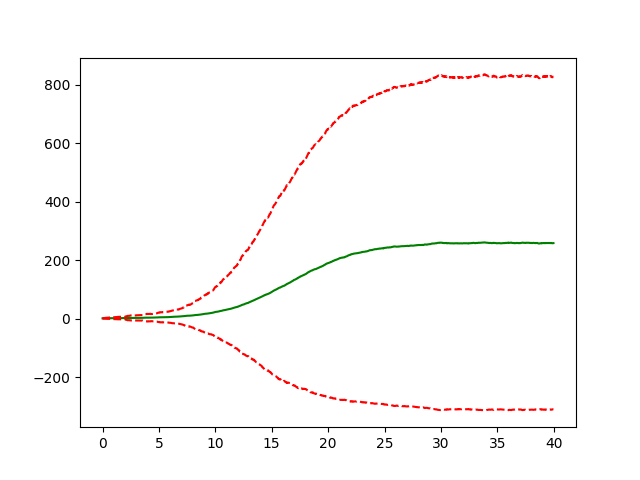
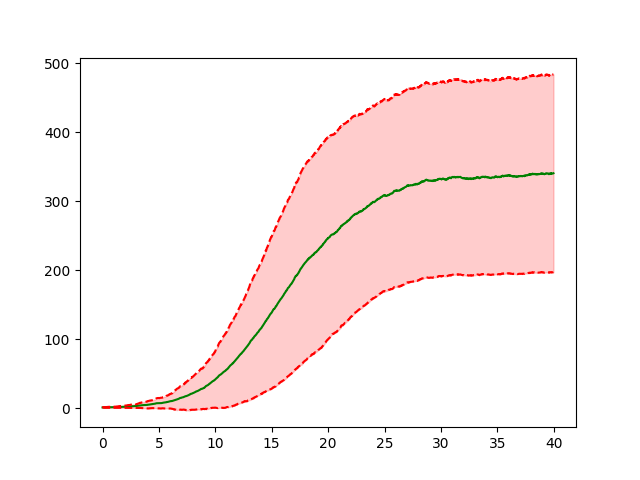
Make new plots

diff --git a/graphs_python/SIS_individuals.py b/graphs_python/SIS_individuals.py
@@ -151,14 +151,15 @@ def draw_perc(gr, I, colours=plt.cm.viridis):
             vmin=0, vmax=1, cmap=colours)
     plt.show()
 
+if __name__ == '__main__':
 
-# PERCOLATION STUFF
-WIDTH = 20
-LENGTH = 25
-mid = WIDTH*LENGTH//2 + WIDTH//2
-G = make_perc_graph(20, 25, 0.5, 20)  # Seeded for repeatability
-I = np.zeros(500)
-I[mid] = 1
+    # PERCOLATION STUFF
+    # WIDTH = 20
+    # LENGTH = 25
+    # mid = WIDTH*LENGTH//2 + WIDTH//2
+    # G = make_perc_graph(20, 25, 0.55, 20)  # Seeded for repeatability
+    # I = np.zeros(500)
+    # I[mid] = 1
 
 
     # FACEBOOK STUFF
@@ -168,28 +169,28 @@ I[mid] = 1
         I[i] = 1
 
 
-# Networkx Builtin Graphs
-# G = nx.watts_strogatz_graph(500, 40, 0.5)
-# I = np.zeros(500)
-# I[0] = 1
+    # Networkx Builtin Graphs
+    # G = nx.watts_strogatz_graph(500, 40, 0.5)
+    # I = np.zeros(500)
+    # I[0] = 1
 
-k_I = 0.1
-k_S = 0.02
-iters = 20
-END = 600
+    k_I = 0.1
+    k_S = 10
+    iters = 20
+    END = 2
 
     tcollect = []
     Icollect = []
     conns = []
     processes = []
 
-for i in range(iters):
-    par_conn, child_conn = Pipe()
-    process = Process(target=mult_Gillespie, args=(
-        G, I, k_I, k_S, child_conn, END, 0.1, None))
-    processes.append(process)
-    conns.append(par_conn)
-    process.start()
+    for i in range(iters):
+        par_conn, child_conn = Pipe()
+        process = Process(target=mult_Gillespie, args=(
+            G, I, k_I, k_S, child_conn, END, 0.1, None))
+        processes.append(process)
+        conns.append(par_conn)
+        process.start()
 
     for conn in conns:
         ts, Is = conn.recv()
@@ -200,26 +201,27 @@ for i in range(iters):
         proc.join()
 
 
-# GRID
-tgrid = np.arange(0, END, END/(I.size*4))
-Igrid = []
-for i in range(iters):
-    Igrid.append(griddify(np.array(tcollect[i]), tgrid, np.array(Icollect[i])))
+    # GRID
+    tgrid = np.arange(0, END, END/(I.size*4))
+    Igrid = []
+    for i in range(iters):
+        Igrid.append(griddify(np.array(tcollect[i]), tgrid, np.array(Icollect[i])))
 
-Igrida = np.array(Igrid)
-avs = np.sum(Igrida, 0)/iters
-sds = np.sqrt(np.sum(Igrida**2, 0)/iters - avs**2)
+    Igrida = np.array(Igrid)
+    avs = np.sum(Igrida, 0)/iters
+    sds = np.sqrt(np.sum(Igrida**2, 0)/iters - avs**2)
 
-plt.plot(tgrid, avs, "g")
-plt.plot(tgrid, avs + 3*sds, "--r")
-plt.plot(tgrid, avs - 3*sds, "--r")
-
-
-# for i in range(iters):
-#     plt.plot(tcollect[i], Icollect[i])
+    plt.plot(tgrid, avs, "g")
+    plt.plot(tgrid, avs + sds, "--r")
+    plt.plot(tgrid, avs - sds, "--r")
+    plt.fill_between(tgrid, avs - sds, avs + sds, color=(1, 0, 0, 0.2))
 
 
-# plt.title("SSA of SIS Individuals model on Graph Infecteds over Time")
-# plt.xlabel("Time t")
-# plt.ylabel("Infecteds I(t)")
-plt.show()
+    # for i in range(iters):
+    #     plt.plot(tcollect[i], Icollect[i])
+
+
+    # plt.title("SSA of SIS Individuals model on Graph Infecteds over Time")
+    # plt.xlabel("Time t")
+    # plt.ylabel("Infecteds I(t)")
+    plt.show()
